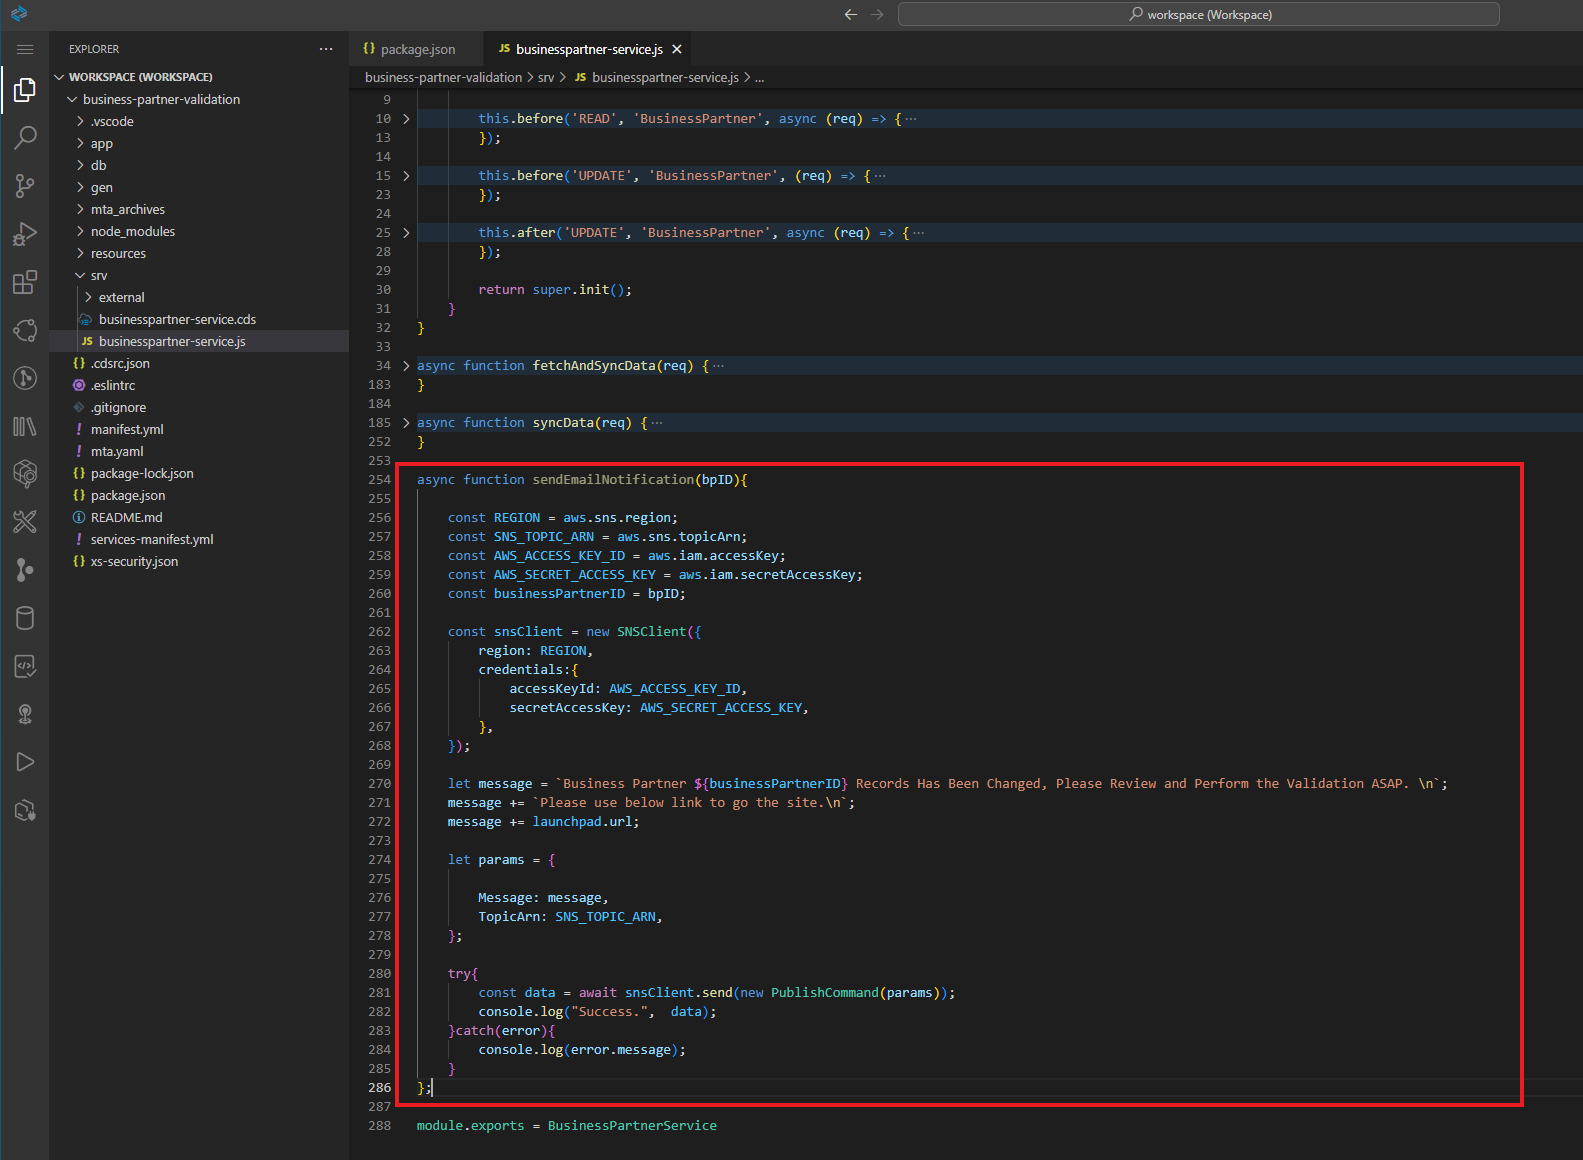
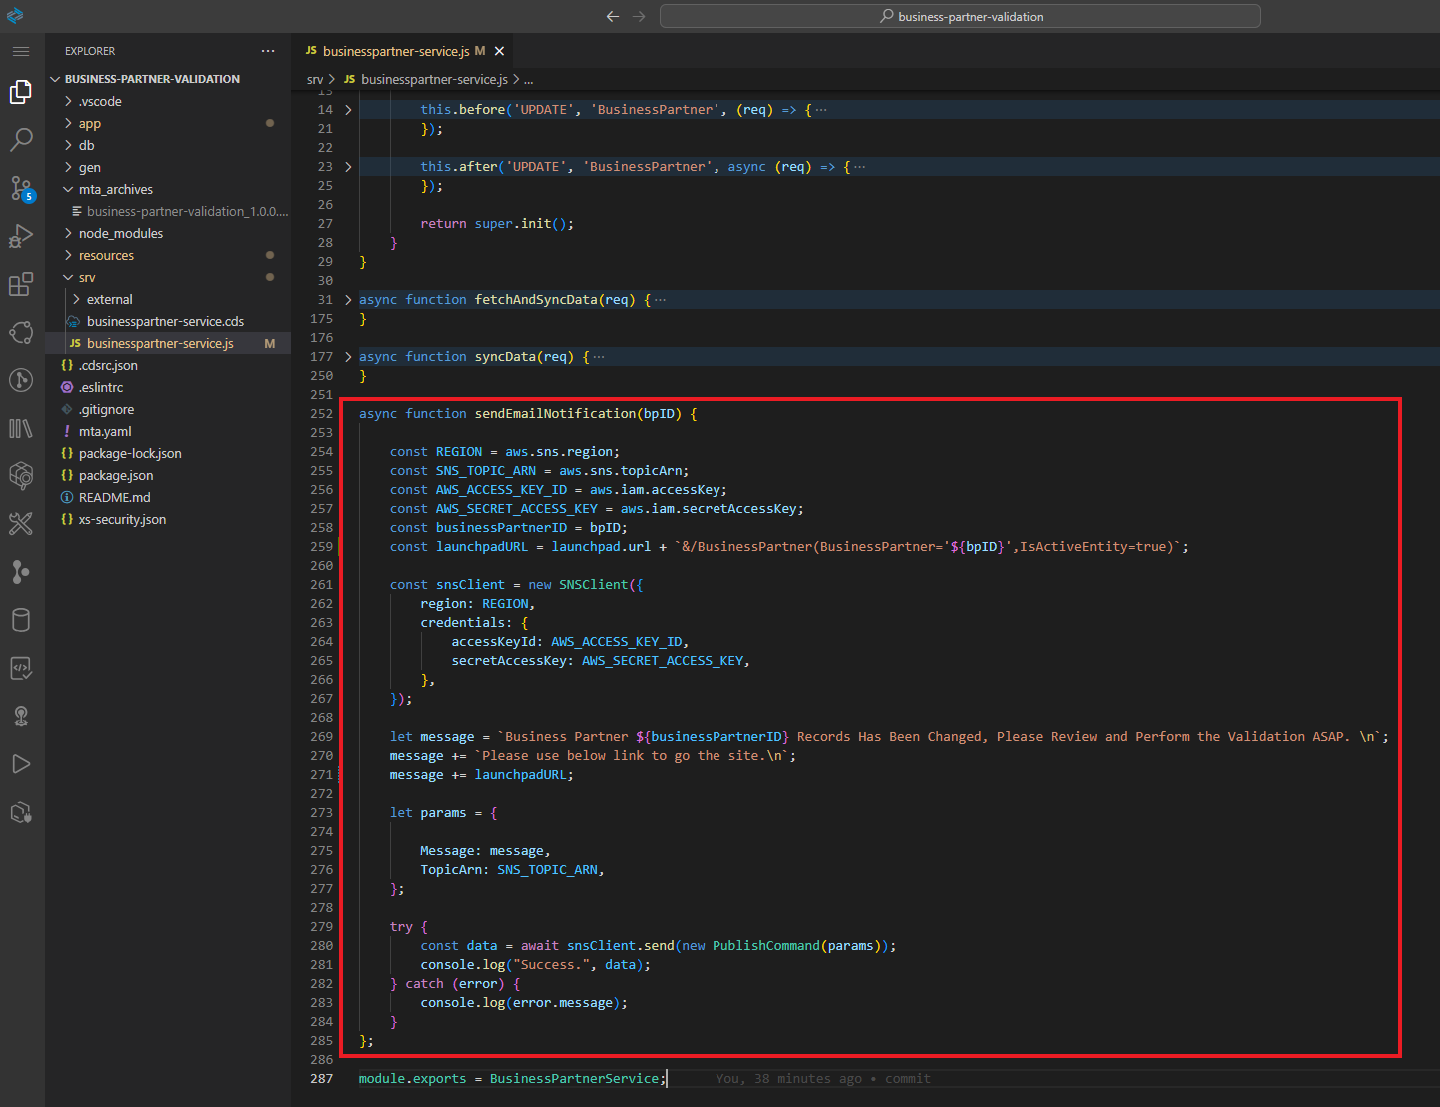
Update Week 3 Unit 4 instruction file

diff --git a/Week 3/Unit 3.4/README.md b/Week 3/Unit 3.4/README.md
@@ -202,6 +202,7 @@ async function sendEmailNotification(bpID){
     const AWS_ACCESS_KEY_ID = aws.iam.accessKey;
     const AWS_SECRET_ACCESS_KEY = aws.iam.secretAccessKey;
     const businessPartnerID = bpID;
+    const launchpadURL = launchpad.url + `&/BusinessPartner(BusinessPartner='${bpID}',IsActiveEntity=true)`;
 
     const snsClient = new SNSClient({
         region: REGION,
@@ -213,7 +214,7 @@ async function sendEmailNotification(bpID){
 
     let message = `Business Partner ${businessPartnerID} Records Has Been Changed, Please Review and Perform the Validation ASAP. \n`;
     message += `Please use below link to go the site.\n`;
-    message += launchpad.url;
+    message += launchpadURL;
     
     let params = {
 
